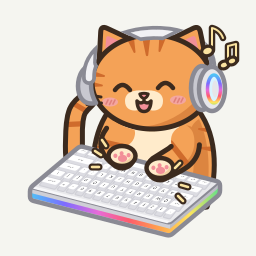
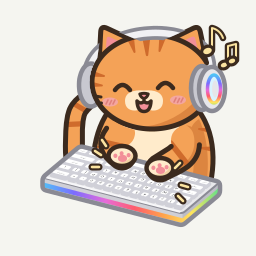
art: cat layering (body corner tucked behind the new keyboard, hug paws and held items clear the back rim, headphone band one piece behind the ears and the head, beanie ear holes show ear not forehead)

diff --git a/art/cat/_src/gen_cat.py b/art/cat/_src/gen_cat.py
@@ -189,12 +189,22 @@ def ear_pts(side, perk=False):
 def ear(side, perk=False):
     pts = ear_pts(side, perk)
     d, poly = rounded(pts, [2, 6.5, 2])
-    # inner ear: shrink toward a point near the base middle
-    cx = (pts[0][0] + pts[2][0]) / 2 * 0.62 + pts[1][0] * 0.38
-    cy = (pts[0][1] + pts[2][1]) / 2 * 0.62 + pts[1][1] * 0.38 + 4
-    inner_pts = [(cx + (x - cx) * 0.56, cy + (y - cy) * 0.56) for x, y in pts]
-    di, ipoly = rounded(inner_pts, [1.5, 4, 1.5])
+    di, _ = ear_inner_shape(side, perk)
     return d, poly, di
+
+
+def ear_inner_shape(side, perk=False):
+    """Inner ear: the ear shrunk toward a point near the base middle. The point comes from the
+    resting ear in both poses, so a perked ear's inner ear only stretches toward the tip and keeps
+    the same base (the beanie repaints ear bases and must match either pose)."""
+    pts, rest = ear_pts(side, perk), ear_pts(side, False)
+    cx = (rest[0][0] + rest[2][0]) / 2 * 0.62 + rest[1][0] * 0.38
+    cy = (rest[0][1] + rest[2][1]) / 2 * 0.62 + rest[1][1] * 0.38 + 4
+    return rounded([(cx + (x - cx) * 0.56, cy + (y - cy) * 0.56) for x, y in pts], [1.5, 4, 1.5])
+
+
+def ear_inner(side, perk=False):
+    return ear_inner_shape(side, perk)[1]
 
 
 EARS_ALL = unary_union([ear(s, p)[1] for s in "LR" for p in (False, True)])
@@ -289,11 +299,11 @@ def face(eyes, mouth):
 # ---------------------------------------------------------------- body + tail
 # the two ends run a few units on into the head (same tangent) so the stroke's closing corner stays
 # hidden under the head instead of nicking the chin outline
-BODY_D = "M113 105 L108 112 C91 136 89 178 99 203 Q153 216 207 207 C217 180 219 137 198 110 L192 102Z"
+BODY_D = "M113 105 L108 112 C91 136 89 178 99 203 Q153 215 204 204 C215 178 219 137 198 110 L192 102Z"
 BODY = Polygon([(113, 105)] + cubic((108, 112), (91, 136), (89, 178), (99, 203))
-               + cubic((207, 207), (217, 180), (219, 137), (198, 110)) + [(192, 102)])
+               + cubic((204, 204), (215, 178), (219, 137), (198, 110)) + [(192, 102)])
 BIB_D = "M124 114 C121 138 128 160 146 168 C164 170 178 152 180 116Z"
-BODY_SHADE_D = "M199 119 C210 142 211 176 205 205 L186 205 C195 178 196 152 190 133 Q191 124 199 119Z"
+BODY_SHADE_D = "M199 119 C210 142 210 174 203 204 L186 205 C195 178 196 152 190 133 Q191 124 199 119Z"
 BODY_STRIPES = unary_union([
     tapered((222, 132), (199, 129), 4.2, 1.0),
     tapered((222, 150), (201, 148), 4.0, 1.0),
@@ -501,7 +511,7 @@ def paws_layer(lstate, rstate, sleeping=False):
 
 def hug_paws(kind):
     if kind == "hug":
-        pl, pr = (148, 152), (182, 146)
+        pl, pr = (148, 147), (182, 145)
         rl, rr = -20, 20
         clip = HEAD
     else:
@@ -525,6 +535,7 @@ def hug_paws(kind):
 
 
 SIP_ANCHOR = (147, 116, -24)
+HOLD_DY = -5.0  # hug-position held items sit this far above the shared anchor
 SIP_PAWS = ((134, 132), (168, 124))
 
 
@@ -585,17 +596,31 @@ HP_RING = """<defs>
 
 
 def headphones_body():
-    band = LineString(cubic((89, 78), (86, 22), (217, 16), (209, 72), 80))
-    cut = EARS_ALL.buffer(2.6)
-    outer = band.buffer(7, cap_style="round").difference(cut)
-    inner = band.buffer(3.25, cap_style="round").difference(cut.buffer(3.4))
-    hl = LineString(cubic((104, 45), (120, 30), (150, 26), (176, 30), 40)).buffer(1.25).difference(cut.buffer(3.0))
-    hl = hl.intersection(inner)
+    """One continuous band over the crown that passes behind both ears (cut exactly along the ears'
+    outer outline edge, no end caps, so it reads as one piece running behind them), drops down the
+    far side behind the head (clipped at the head outline) into a far cup that only shows as a
+    crescent beyond the head, and comes down the near side into the near cup."""
+    band = LineString(cubic((89, 78), (86, 22), (217, 16), (209, 72), 160))
+    # behind the ears: the normal ears' full outline, plus the perked ears (excited) almost to their
+    # outline's middle, so neither pose leaves a gap or lets the band cover much of an ear outline
+    ears = unary_union([ear(sd, False)[1].buffer(2.5) for sd in "LR"]
+                       + [ear(sd, True)[1].buffer(0.5) for sd in "LR"])
+    head_out = ellipse_poly(HX, HY, HRX, HRY, res=160).buffer(2.5, quad_segs=32)
+    # left of the far ear the band is on the far side of the head: the head hides it
+    far = Polygon([(0, 0), (104, 0), (104, 256), (0, 256)]).intersection(head_out)
+    cut = unary_union([ears, far])
+    outer = band.buffer(7, quad_segs=32).difference(cut)
+    inner = band.buffer(3.25, quad_segs=32).difference(cut)
+    hl = LineString(cubic((104, 45), (120, 30), (150, 26), (176, 30), 40)).buffer(1.25)
+    hl = hl.intersection(inner.buffer(-1.2)).difference(cut.buffer(1.5))
+    # far cup: an ellipse tucked behind the head's left side; only the crescent beyond the head's
+    # outline shows, and its fill meets that outline directly
+    far_cup = ellipse_poly(91, 85, 12, 21.5, res=96)
+    fc_outer = far_cup.buffer(2.25).difference(head_out)
+    fc_inner = far_cup.buffer(-2.25).difference(head_out)
     out = [
-        # far cup crescent outside the head's left edge
-        f'<path d="M95 65 C83 64 78 76 78 86 C78 96 83 106 96 103 C92 96 91 90 91 84 C91 77 92 71 95 65Z" '
-        f'fill="{HP_SH}" stroke="{G_LINE}" stroke-width="4.5" stroke-linejoin="round"/>',
-        fill(poly_d(outer), G_LINE), fill(poly_d(inner), HP_BAND), fill(poly_d(hl), HP_CUP),
+        fill(poly_d(outer, 0.03), G_LINE), fill(poly_d(inner, 0.03), HP_BAND), fill(poly_d(hl, 0.03), HP_CUP),
+        fill(poly_d(fc_outer, 0.03), G_LINE), fill(poly_d(fc_inner, 0.03), HP_SH),
         f'<ellipse cx="202" cy="88" rx="11" ry="22" fill="{HP_SH}" stroke="{G_LINE}" stroke-width="4.5"/>',
         f'<ellipse cx="212" cy="89" rx="13" ry="22" fill="{HP_CUP}" stroke="{G_LINE}" stroke-width="4.5"/>',
         f'<ellipse cx="214" cy="89" rx="6.5" ry="14" fill="{HP_GLOW}" stroke="url(#hp-ring)" stroke-width="3.5"/>',
@@ -616,8 +641,12 @@ def beanie_body():
     cuff_lo = cubic((86, 74), (120, 59), (184, 57), (218, 74), 40)
     cuff_hi = [(x, y - 11) for x, y in cubic((86, 74), (120, 59), (184, 57), (218, 74), 40)]
     cuff = Polygon(cuff_lo + cuff_hi[::-1]).buffer(1.5).intersection(top.buffer(0.5))
-    hat = unary_union([dome, cuff]).difference(EARS_ALL.buffer(1.0))
-    cuff = cuff.difference(EARS_ALL.buffer(1.0))
+    # ear holes hug the normal ears (the hat's 4.5 hole outline lands on the ear outline); the perked
+    # ears only stick out of them by a hair. A hole cut to both poses leaves forehead (and a stripe)
+    # showing between the hat and the idle ears.
+    holes = unary_union([ear(sd, False)[1].buffer(1.0) for sd in "LR"] + [ear(sd, True)[1] for sd in "LR"])
+    hat = unary_union([dome, cuff]).difference(holes)
+    cuff = cuff.difference(holes)
     shade = hat.difference(affinity.translate(hat, -7, -3))
     ribs = []
     for k in range(13):
@@ -629,7 +658,18 @@ def beanie_body():
     knit = MultiLineString([LineString(cubic((112, 52), (122, 46), (130, 42), (140, 40), 10)),
                             LineString(cubic((160, 40), (170, 41), (180, 45), (190, 51), 10))]).difference(EARS_ALL.buffer(4))
     hd = poly_d(hat)
+    # inside the holes the frame shows the head drawn over the ear bases (head outline + a forehead
+    # stripe running across the ear). Under a hat the ear comes straight out of the knit, so repaint
+    # the part of each hole below the head outline as ear: fur + inner ear, no head line.
+    head_out = HEAD.buffer(3.5)  # a unit past the head outline, so no anti-aliased seam shows it
+    ear_fill, inner = [], []
+    for sd in "LR":
+        hole = ear(sd, False)[1].buffer(1.0).union(ear(sd, True)[1])
+        low = hole.intersection(head_out).intersection(top.buffer(3))
+        ear_fill.append(low)
+        inner.append(ear_inner(sd, False).intersection(low))
     return [
+        fill(poly_d(unary_union(ear_fill)), MAIN), fill(poly_d(unary_union(inner)), FEAT),
         fill(hd, BEANIE_C, ' fill-rule="evenodd"'), fill(poly_d(shade), BEANIE_SH),
         stroke(line_d(ribs), 2.2, BEANIE_RIB), stroke(line_d(knit), 2.2, BEANIE_RIB),
         stroke(poly_d(cuff), 3.5), stroke(hd, 4.5),
@@ -679,7 +719,7 @@ def glasses_body():
 
 def build_acc():
     items = {
-        "headphones": (headphones_body, HP_RING, "headphones refit to the cat head (H 152,82; rx 60, ry 47); band gaps behind both ears."),
+        "headphones": (headphones_body, HP_RING, "headphones refit to the cat head (H 152,82; rx 60, ry 47): one band behind both ears, far side behind the head."),
         "beanie": (beanie_body, "", "knit beanie on the crown, ears poke through two holes."),
         "party_hat": (party_hat_body, "", "party hat on the forehead between the ears."),
         "bow": (bow_body, "", "ribbon bow at the base of the near ear."),
@@ -704,6 +744,13 @@ def build_hold():
                      f'<g transform="translate({sx} {sy}) rotate({sr})">', src, count=1)
         sip = sip.replace("hug position", "cat sip position (raised to the mouth)")
         (ACC / f"sip_{item[5:]}.svg").write_text(sip)
+        # hug position: the shared anchor nudged up so the item's base clears the keyboard's back rim
+        # (it is drawn over the keyboard; lower, its bottom would read as poking through the board)
+        hug = re.sub(r'<g transform="translate\(([\d.]+) ([\d.]+)\)',
+                     lambda m: f'<g transform="translate({m.group(1)} {f(float(m.group(2)) + HOLD_DY)})',
+                     src, count=1)
+        hug = hug.replace("hug position", "cat hug position (nudged up off the keyboard rim)")
+        (ACC / f"{item}.svg").write_text(hug)
 
 
 # ---------------------------------------------------------------- icons

diff --git a/art/cat/NOTES.md b/art/cat/NOTES.md
@@ -20,14 +20,19 @@ rx 60, ry 47.
 - `sleep`: head lowered by the sleep transform, "u" sleepy eyes (distinct from the content line
   eyes), tail tucked low behind the keyboard.
 - `wake`: head still lowered, left eye open, right eye sleepy. Uses `sleep_paws`.
-- `hold`: content face, chubby forearms hugging the item at the shared hug anchor (the shared
-  `hold_*` positions fit, so there are no `acc/hold_*` overrides).
+- `hold`: content face, chubby forearms hugging the item. The paws and the item sit 5 units above
+  the shared hug anchor (`acc/hold_coffee.svg`, `acc/hold_boba.svg`, `acc/hold_book.svg` are the shared
+  drawings at `translate(164 135)`), so neither the paws nor the item's base overlap the keyboard's
+  back rim.
 - `sip`: happy closed eyes, paws raised to (134,132)/(168,124) holding the item at the mouth.
   The item positions for this frame are `acc/sip_coffee.svg`, `acc/sip_boba.svg`, `acc/sip_book.svg`
   (shared drawings, group transform `translate(147 116) rotate(-24)`).
 - `icon` / `icon_template`: front-facing face, outline 16, eyes 18; reads at 16 px.
 
 Accessories (`acc/`, each with a `_sleep` twin in the sleep transform): `headphones` refit to the
-head, with the band running behind both ears (gaps cut along the ear outlines); `beanie` (teal knit,
-the ears poke through two holes); `party_hat` (on the forehead between the ears); `bow` (pink, at the
+head: one band over the crown that runs behind both ears (cut exactly along the ears' outer outline,
+no end caps), drops behind the head on the far side (clipped at the head outline) into a far cup that
+only shows as a crescent, and comes down the near side into the near cup; `beanie` (teal knit,
+the ears poke through two holes; inside the holes the ear bases are repainted so the head outline and
+forehead stripe don't show through); `party_hat` (on the forehead between the ears); `bow` (pink, at the
 base of the near ear); `glasses` (round brown frames over the eyes).
